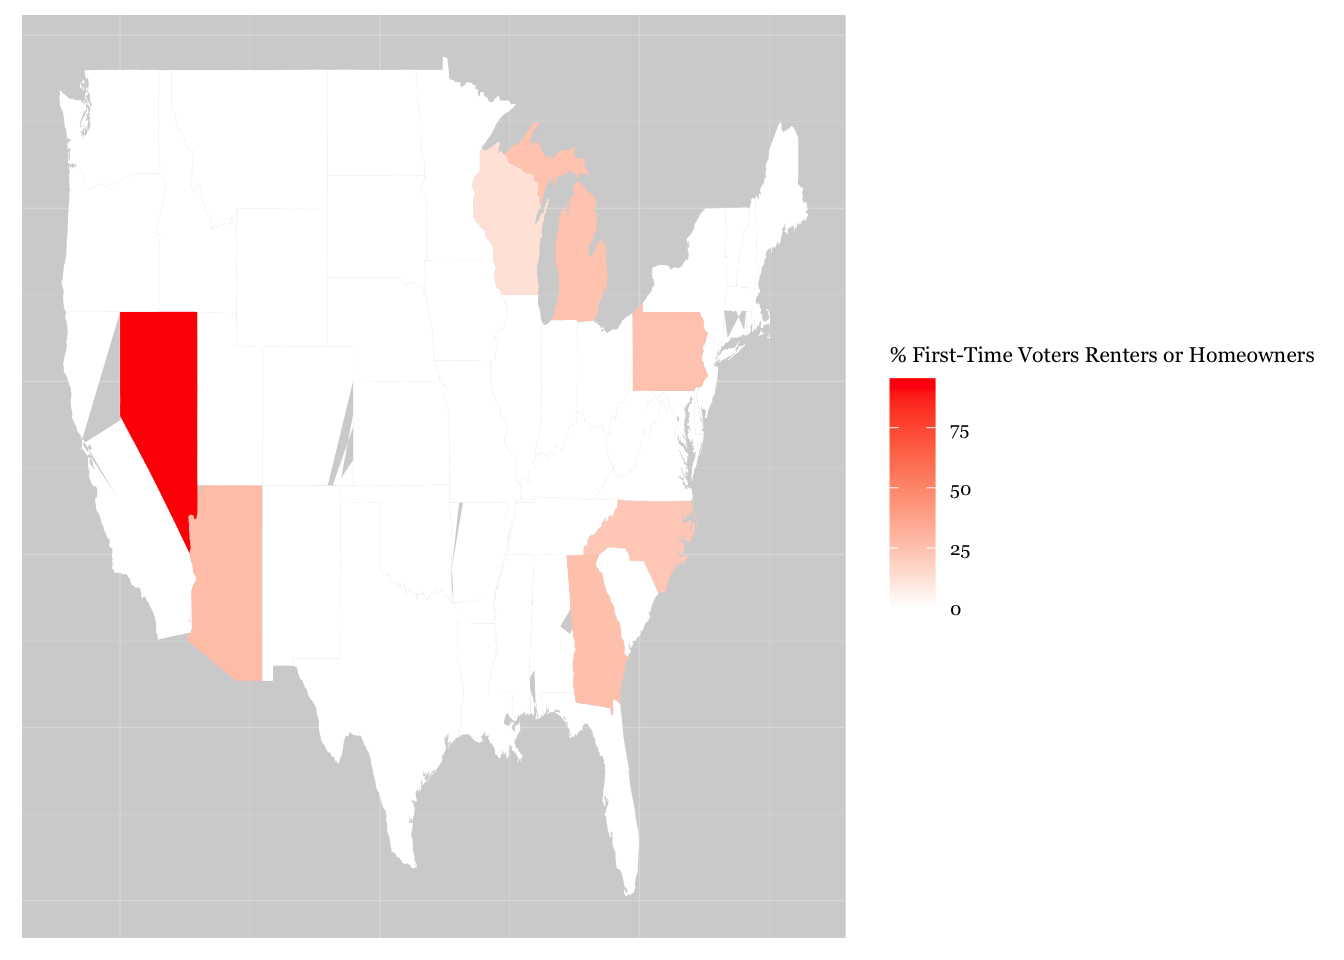
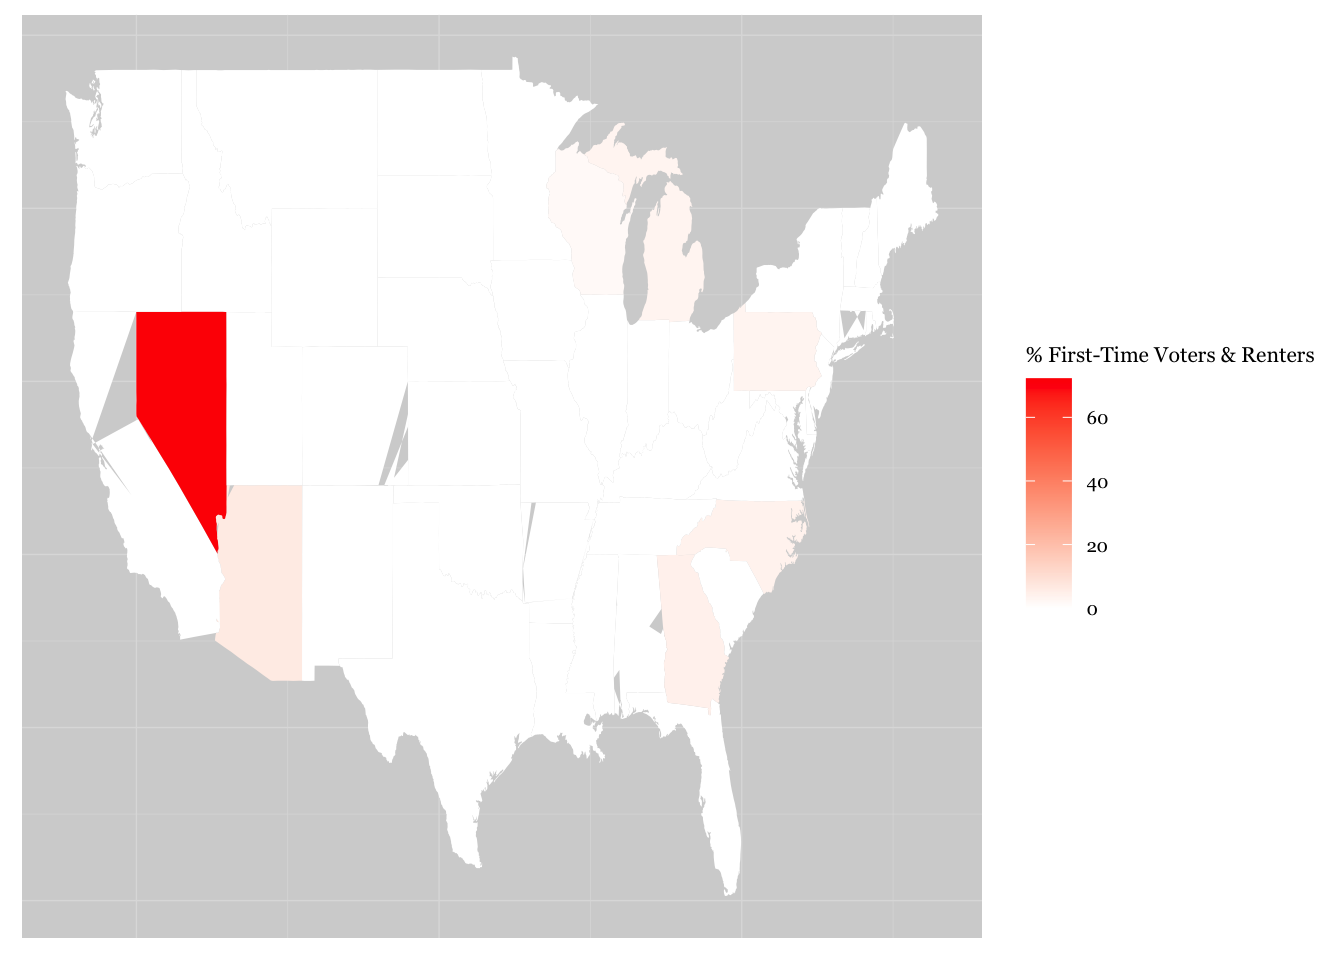
Finish Blog Post 5

Changed region(s): [[0.0312, 0.0, 0.9688, 1.0], [0.25, 0.4062, 0.3125, 0.5]]

diff --git a/public/post/2024/10/05/week-5-demographics/index.html b/public/post/2024/10/05/week-5-demographics/index.html
@@ -31,7 +31,15 @@
 <img src="Kim_Zilinsky.png" width="33%" height="33%" style="display: block; margin: auto;" />
 <p>The takeaway from the graph and the article is that demographics alone have relatively low predictive power as only around 60% of partisan vote choices were accurately explained by the demographics alone model. However, the graph also shows that demographics are still useful when combined with other variables. So, how do demographics look in the 2024 election and what effect might they have?</p>
 <h2 id="analyzing-the-voterfile">Analyzing the Voterfile</h2>
-<p><img src="/post/2024/10/05/week-5-demographics/index_files/figure-html/unnamed-chunk-3-1.png" width="672" /><img src="/post/2024/10/05/week-5-demographics/index_files/figure-html/unnamed-chunk-3-2.png" width="672" /><img src="/post/2024/10/05/week-5-demographics/index_files/figure-html/unnamed-chunk-3-3.png" width="672" /></p>
+<p>Although it is impossible to know the demographics of voters before the election occurs, there are some tools that we can use to predict to the demographics of the election. One of the tools are lists of registered voters in each state. Although all registered voters will not turnout and some voters will register on election day, the lists give a good hint of potential demographics. Using these lists of registered voters, I will analyze a few demographics: Age, Married, Renters / Homeowners</p>
+<h4 id="age">Age</h4>
+<p>The map below shows the average age of registered voters in each state. Although the range is relatively small as it goes from 50 to 65, there are still some interesting comparative insights. The swing states of Nevada, Georgia, and North Carolina standout. Nevada has one of the oldest voting populations in the U.S., but Georgia and North Carolina have some of the youngest in the country. Understanding voting preferences of the elderly and youth appear to be critical in predicitng the election outcome in these states.</p>
+<img src="/post/2024/10/05/week-5-demographics/index_files/figure-html/unnamed-chunk-3-1.png" width="672" />
+<h4 id="married">Married</h4>
+<p>The map below shows the percent of registered voters in each state that are married. North Carolina once again stands out as it has one of the highest percentage of single voters in the nation. This could hint that the candidate that better addresses issues that are critical to single voters could win the swing state.
+<img src="/post/2024/10/05/week-5-demographics/index_files/figure-html/unnamed-chunk-4-1.png" width="672" /></p>
+<h4 id="renters--homeowners">Renters / Homeowners</h4>
+<img src="/post/2024/10/05/week-5-demographics/index_files/figure-html/unnamed-chunk-5-1.png" width="672" />
 <h2 id="analyzing-new-prediction-model">Analyzing New Prediction Model</h2>
 
 </main>

diff --git a/content/post/2024-10-05-week-5-demographics/index.md b/content/post/2024-10-05-week-5-demographics/index.md
@@ -35,10 +35,13 @@ The map below shows the average age of registered voters in each state. Although
 #### Married
 
 The map below shows the percent of registered voters in each state that are married. North Carolina once again stands out as it has one of the highest percentage of single voters in the nation. This could hint that the candidate that better addresses issues that are critical to single voters could win the swing state.
+
 <img src="{{< blogdown/postref >}}index_files/figure-html/unnamed-chunk-4-1.png" width="672" />
 
 
-#### Renters / Homeowners
+#### Renters
+
+Due to rising housing prices and its centrality as a political issue during this presidential cycle, I decided to include a graph on housing demographics in swing states. The map below shows the percentage of registered voters in each state that have never voted before and are renters. The map highlights the effect that housing policy could have on the election in Nevada as a large percentage __(72.2%)__ of registered voters rent and have never voted before. Although the percentage of renters is low in other swing states, the demographic could still swing the election as the race is expected to be narrow in each state.
 
 <img src="{{< blogdown/postref >}}index_files/figure-html/unnamed-chunk-5-1.png" width="672" />
 
@@ -49,6 +52,13 @@ The map below shows the percent of registered voters in each state that are marr
 
 
 ## Analyzing New Prediction Model
+
+Centering on the housing issue, I decided to adjust the election prediction model to include data about housing. Using data from [FRED](https://fred.stlouisfed.org/), I added in historical data on rental and housing vacancy rates. Along with the housing data, I used GDP Q2 growth, difference in S&P 500 open and close, and inflation (CPI) data to calculate a model. I then combined this model with a simple model using historical national polling averages to get a popular vote prediction. As I constructed the predictions, I noticed a significant difference based on whether I incldued or excluded "outliers". In the case of the fundamental data the 2020 election is an outlier and in the case of polling averages the 2016 and 2020 elections are excluded as outliers. The two models and their predictions are listed below.
+
+Model | Harris Predicted Vote | Trump Predicted Vote
+------------- | ------------- | -------------
+Ensemble All Data | 53.4 % | 46.6%
+Ensemble Without Outliers | 47.6% | 52.4%
 
 
 
